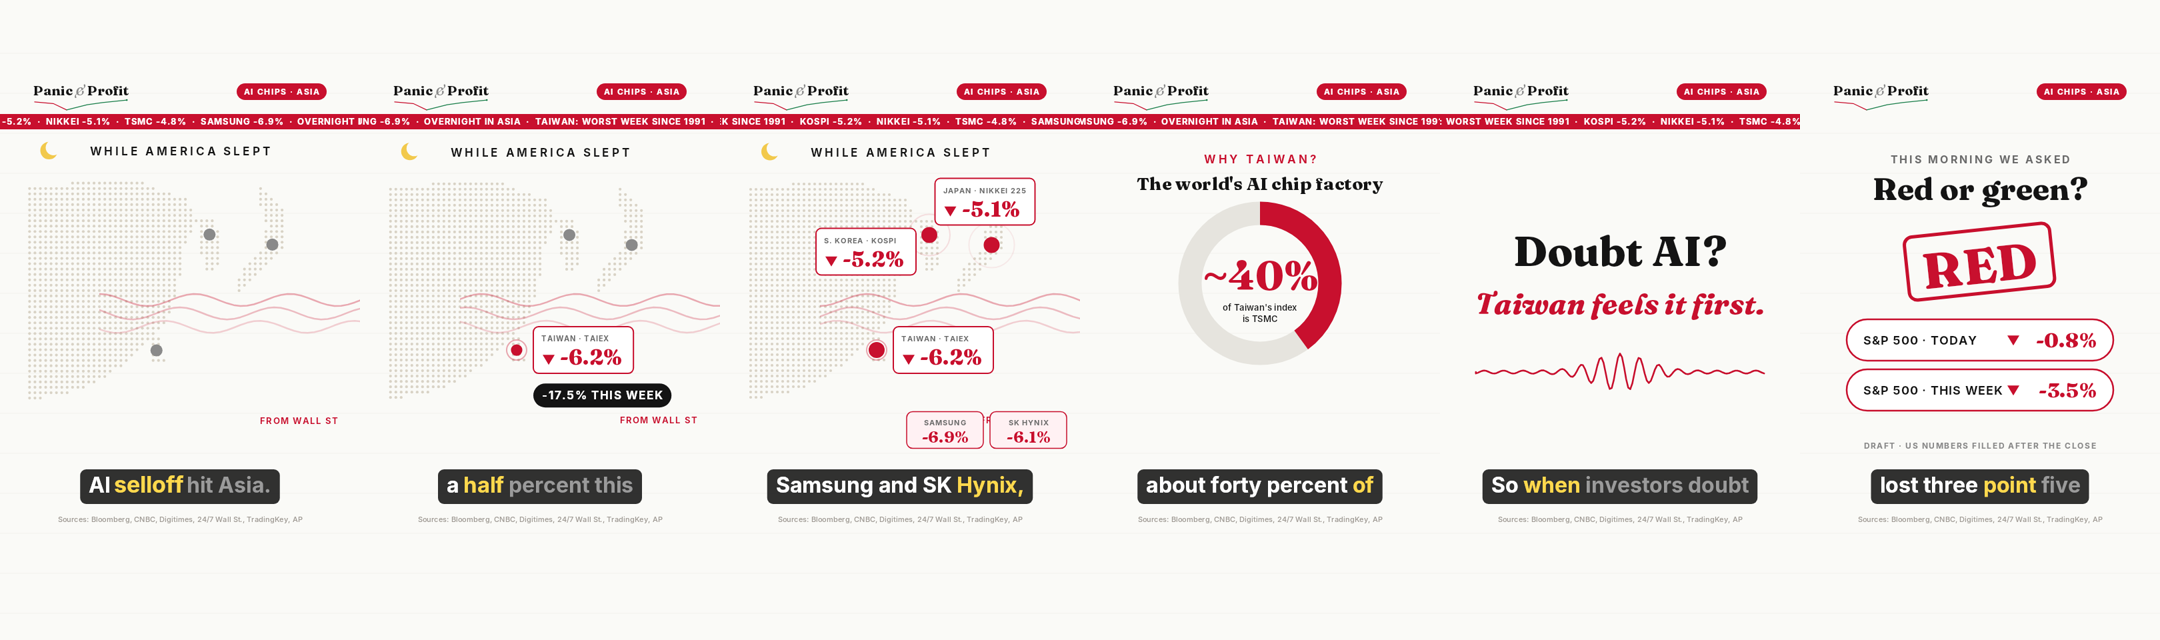
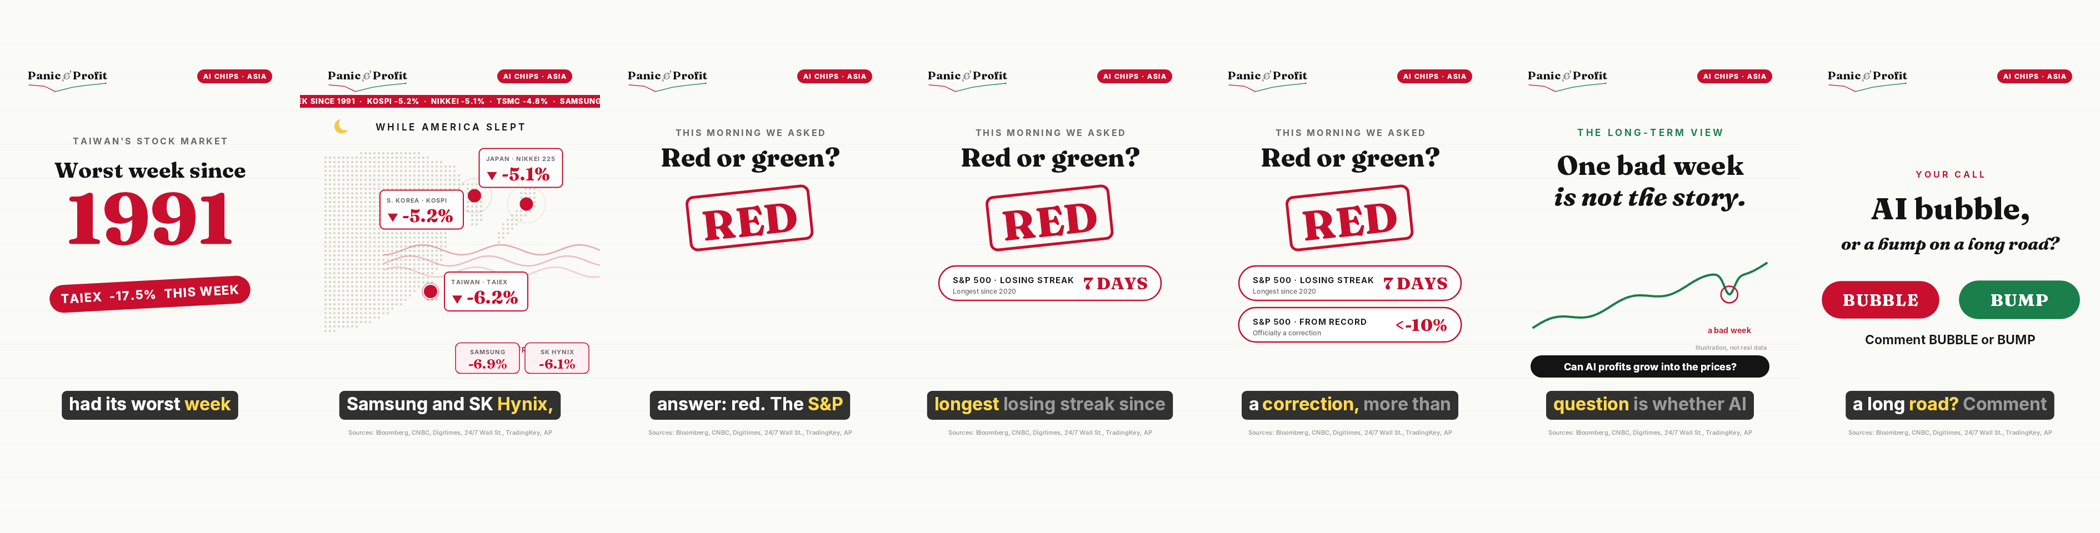
Asia Reel: final script with Friday close facts, caption, cover, story
Claude-Session: https://claude.ai/code/session_01HEfkBjtX9jJLAwHVacHrK9

diff --git a/instagram/panic-and-profit/daily/2026-11-20-asia/reel/code/render.py b/instagram/panic-and-profit/daily/2026-11-20-asia/reel/code/render.py
@@ -277,14 +277,16 @@ def scene_answer(c, t):
         w = tw(word, 150, FR[800]) + 90
         c.drawRRect(rrect(-w / 2, -110, w, 190, 24), paint(hexc(col), stroke=10))
         text(c, word, 0, 50, 150, hexc(col), FR[800], "c"); c.restore()
-    rows = [("S&P 500 · TODAY", NUM["sp_day"], wtime("today", 6) - 1.4), ("S&P 500 · THIS WEEK", NUM["sp_week"], wtime("week.", 6) - 1.3)]
-    for i, (lab, v, tt) in enumerate(rows):
+    rows = [("S&P 500 · LOSING STREAK", "7 DAYS", wtime("seventh", 6) - 0.1, "Longest since 2020"),
+            ("S&P 500 · FROM RECORD", "<-10%", wtime("correction", 6) - 0.1, "Officially a correction")]
+    for i, (lab, v, tt, sub) in enumerate(rows):
         e = back_out((t - tt) / 0.4)
         if t < tt: continue
         y = 1020 + i * 150; s = clamp(e, 0, 1.12)
         c.save(); c.translate(W / 2, y); c.scale(s, s)
-        c.drawRRect(rrect(-400, -62, 800, 124, 62), paint(hexc("#FFFFFF"))); c.drawRRect(rrect(-400, -62, 800, 124, 62), paint(hexc(sigcol(v)), stroke=5))
-        text(c, lab, -350, 14, 36, hexc(INK), IN[700], track=2); tri(c, 100, 0, 30, v > 0, hexc(sigcol(v))); text(c, fmt(v), 350, 22, 62, hexc(sigcol(v)), FR[800], "r")
+        c.drawRRect(rrect(-400, -62, 800, 124, 62), paint(hexc("#FFFFFF"))); c.drawRRect(rrect(-400, -62, 800, 124, 62), paint(hexc(RED), stroke=5))
+        text(c, lab, -350, 0, 30, hexc(INK), IN[700], track=2); text(c, sub, -350, 38, 24, hexc(MUTE), IN[500])
+        text(c, v, 350, 22, 62, hexc(RED), FR[800], "r")
         c.restore()
     if NUM.get("draft"):
         text(c, "DRAFT · US NUMBERS FILLED AFTER THE CLOSE", W / 2, 1345, 24, hexc(GREY), IN[700], "c", track=3)

diff --git a/instagram/panic-and-profit/daily/2026-11-20-asia/reel/code/voice_en.py b/instagram/panic-and-profit/daily/2026-11-20-asia/reel/code/voice_en.py
@@ -10,10 +10,9 @@ def pct(x):
     if d: s += f" point {w[d]}"
     return s + " percent"
 def us_line():
-    col = "green" if N["sp_day"] > 0 else "red"
-    vd = "rose" if N["sp_day"] > 0 else "fell"; vw = "gained" if N["sp_week"] > 0 else "lost"
-    return (f"Back in New York, this morning we asked: red or green? The answer: {col}. "
-            f"The S&P 500 {vd} {pct(N['sp_day'])} today, and {vw} {pct(N['sp_week'])} this week.")
+    return ("Back in New York, this morning we asked: red or green? The answer: red. "
+            "The S&P 500 fell for a seventh straight day, its longest losing streak since 2020, "
+            "and slid into a correction, more than ten percent below its record.")
 PHRASES = [
     (0.30, "Taiwan's stock market just had its worst week since 1991."),
     (0.40, "While America slept, yesterday's AI selloff hit Asia. And it hit harder."),

diff --git a/instagram/panic-and-profit/daily/2026-11-20-asia/sources.md b/instagram/panic-and-profit/daily/2026-11-20-asia/sources.md
@@ -4,4 +4,4 @@
 - Kospi -5.21% (4,869.96), Nikkei -5.06% (56,436.65): CNBC live https://cnbc.com/2026/11/19/stock-market-today-live-updates.html ; 24/7 Wall St.
 - Samsung -6.86%, SK Hynix -6.09%: TradingKey https://www.tradingkey.com/analysis/stocks/more/262314684-japan-korea-stocks-skhy-kospi-nikkei-samsung-skhynix-softbank-kioxia-anthropic-ant-krx-tradingkey ; 24/7 Wall St. (~6%) https://247wallst.com/investing/2026/11/19/south-koreas-stock-market-sinks-4-6-as-kospi-heavyweights-sk-hynix-and-samsung-fall-6-after-wall-streets-ai-selloff/
 - TSMC >40% of Taiex: Taiwan News (May & Oct 2026); TSMC customers Nvidia/AMD/Apple: company disclosures / widely reported.
-- US close Fri Nov 20: TO FILL after 16:00 ET (AP + CNBC/Reuters).
+- US Fri Nov 20: S&P 500 7th straight loss, longest since Feb 2020; correction (>10% below Oct 6 record 7,818.93): CNBC live https://www.cnbc.com/2026/11/19/stock-market-today-live-updates.html ; Benzinga https://www.benzinga.com/markets/market-summary/26/11/63510066/this-week-on-wall-street-semiconductor-worst-two-months-since-2001-nvidia-correction ; Startup Fortune https://startupfortune.com/sp-500-falls-into-a-correction-as-the-ai-selloff-drags-it-10-below-its-record/ ; Nacionale (streak history). Exact daily % omitted: sources at publish time conflicted (-2.1% to -3.5%).
